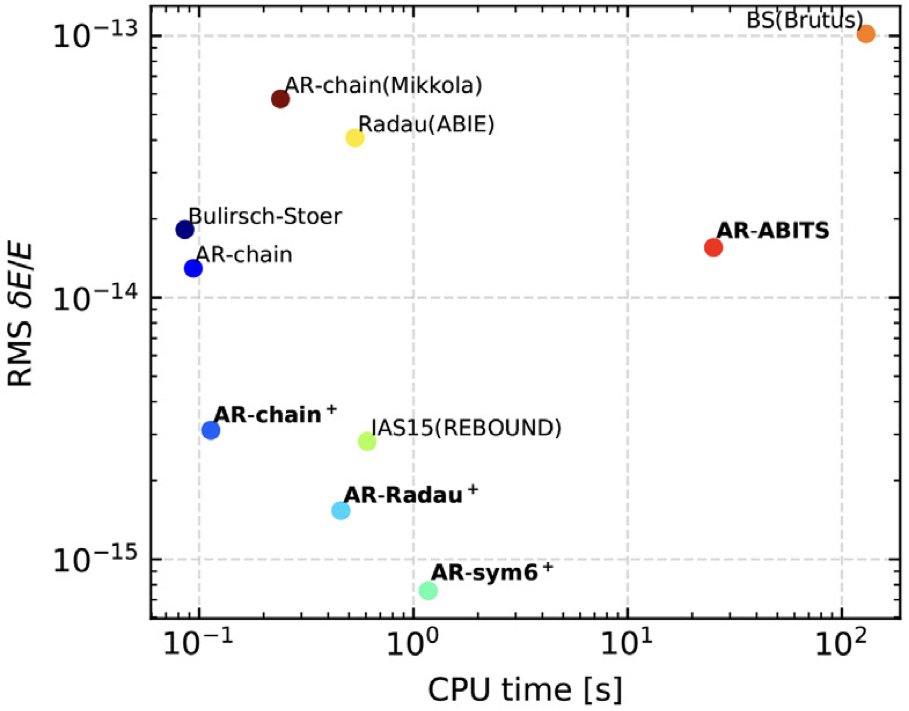
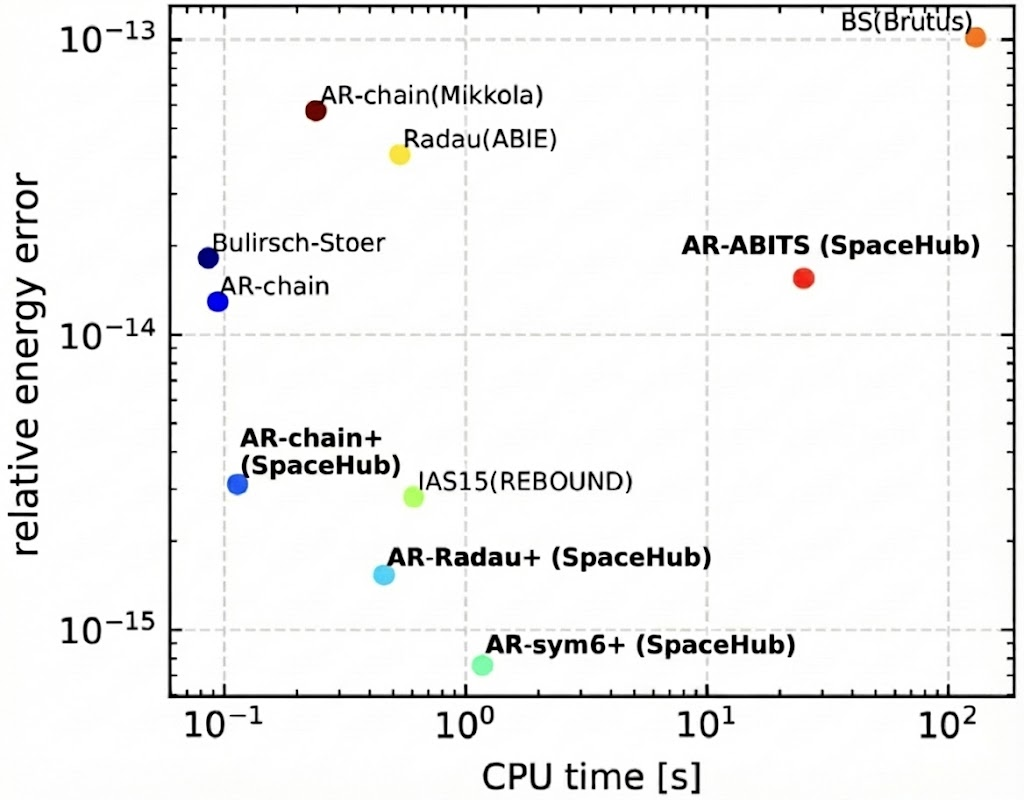
backup

diff --git a/content/authors/admin/_index.md b/content/authors/admin/_index.md
@@ -14,15 +14,17 @@ organizations:
     url: https://www.astro.wisc.edu/
 
 # Short bio (displayed in user profile at end of posts)
-bio: Studying stellar dynamics and transients in Active Galactic Nuclei through theory and high-performance simulations.
+bio: Establishing a unified framework of disk-regulated cluster dynamics to understand AGN transients and gravitational wave sources.
 
 # Interests to show in About widget
 interests:
-  - Stellar dynamics in AGN disks
-  - Tidal disruption events and changing-look AGN
-  - Gravitational wave sources (EMRIs, binary BH mergers)
-  - Quasi-periodic eruptions
-  - Free-floating planets and binary planets
+  - "Nuclei cluster dynamics: <br>
+    &nbsp;&nbsp;&nbsp;&nbsp;◦ Tidal disruption events <br>
+    &nbsp;&nbsp;&nbsp;&nbsp;◦ Changing-look AGN <br>
+    &nbsp;&nbsp;&nbsp;&nbsp;◦ Quasi-periodic eruptions <br>
+    &nbsp;&nbsp;&nbsp;&nbsp;◦ Extreme mass ratio inspirals <br>"
+  - Multi-messenger astrophysics
+  - Free floating planets
 
 # Education to show in About widget
 education:
@@ -67,6 +69,8 @@ highlight_name: true
 
 I am a Postdoctoral Research Associate in the Department of Astronomy at the University of Wisconsin-Madison, working with [Nick Stone](https://www.ncstone.space). Previously, I was a Fellow at the Nevada Center for Astrophysics at UNLV, collaborating with [Bing Zhang](https://www.physics.unlv.edu/~bzhang/) and [Zhaohuan Zhu](https://www.physics.unlv.edu/~zhzhu/Home.html). I completed my PhD at Stony Brook University under [Rosalba Perna](https://www.astro.sunysb.edu/rosalba/).
 
-My research establishes a unified framework for understanding the coupled evolution of AGN disks and their embedded stellar populations. This paradigm connects a broad class of phenomena: rapid AGN state transitions, the puzzling demographics of tidal disruption events, quasi-periodic eruptions, and the formation of gravitational wave sources detectable by LIGO and LISA. I develop open-source simulation tools including [SpaceHub](https://yihanwangastro.github.io/SpaceHubWeb/) for few-body dynamics and [VegasAfterglow](https://github.com/YihanWangAstro/VegasAfterglow) for gamma-ray burst afterglow modeling.
+My research establishes a unified framework of disk-regulated cluster dynamics to understand the coupled evolution of AGN disks and stellar populations in galactic nuclei. This paradigm connects a diverse class of AGN transients and gravitational wave sources: tidal disruption events, changing-look AGN, quasi-periodic eruptions, extreme mass-ratio inspirals, and binary black hole mergers detectable by LIGO and LISA. I develop hard-core open-source simulation tools including [SpaceHub](https://github.com/YihanWangAstro/SpaceHub/) for few-body dynamics and [VegasAfterglow](https://github.com/YihanWangAstro/VegasAfterglow) for gamma-ray burst afterglow modeling.
+
+I hate spaghetti code and am a bit stubborn about elegant problem solutions, which wastes a lot of my time.
 
 {{< icon name="download" pack="fas" >}} Download my {{< staticref "uploads/Yihan's CV.pdf" "newtab" >}}CV{{< /staticref >}}.

diff --git a/content/home/hero.md b/content/home/hero.md
@@ -38,9 +38,20 @@ cta_note:
   label: 
 ---
 
-#### SpaceHub is a state-of-the-art gravitational dynamics framework designed to solve challenging few-body problems with exceptional precision and efficiency. From supermassive black hole binaries to planetary system evolution, SpaceHub handles extreme scenarios — including large mass ratios, highly eccentric orbits, and close gravitational encounters — that often challenge conventional numerical integrators. Built with advanced algorithmic regularization and rigorous round-off error control, it enables reliable long-term integrations where standard codes like REBOUND may struggle with numerical accuracy.
+#### SpaceHub is a state-of-the-art gravitational dynamics framework designed to solve challenging few-body problems with exceptional precision and efficiency. From supermassive black hole binaries to planetary system evolution, SpaceHub handles extreme scenarios, including large mass ratios, highly eccentric orbits, and close gravitational encounters that often challenge conventional numerical integrators. Built with advanced algorithmic regularization and rigorous round-off error control, it enables reliable long-term integrations where standard codes like REBOUND may struggle with numerical accuracy.
 
-[![DOI:10.1093/mnras/stab1189](https://zenodo.org/badge/DOI/10.1093/mnras/stab1189.svg)](https://doi.org/10.1093/mnras/stab1189)
+<div style="display: flex; justify-content: space-around; flex-wrap: wrap; gap: 20px; margin: 30px 0;">
+  <div style="text-align: center; max-width: 45%;">
+    <h4>Runge-Kutta (irreversible)</h4>
+    <img src="/uploads/Picture1.gif" alt="Runge-Kutta (irreversible)" style="width: 100%; height: auto;" />
+  </div>
+  <div style="text-align: center; max-width: 45%;">
+    <h4>Symplectic (reversible)</h4>
+    <img src="/uploads/Picture2.gif" alt="Symplectic (reversible)" style="width: 100%; height: auto;" />
+  </div>
+</div>
+
+[**Read the paper: MNRAS, 503, 6005-6017 (2021)**](https://ui.adsabs.harvard.edu/abs/2021MNRAS.505.1053W/abstract)
 
 <!---[![GitHub stars](https://img.shields.io/github/stars/YihanWangAstro/SpaceHub.svg?style=social&label=Star&maxAge=2592000)](https://github.com/YihanWangAstro/SpaceHub/stargazers/)--->
 

diff --git a/content/home/hero-vegasafterglow.md b/content/home/hero-vegasafterglow.md
@@ -47,7 +47,7 @@ cta_note:
   label: 
 ---
 
-#### VegasAfterglow is a high-performance computational framework for gamma-ray burst afterglow modeling, combining C++ efficiency with Python accessibility. Unlike existing tools such as afterglowpy, VegasAfterglow generates light curves in milliseconds — enabling rapid MCMC parameter inference that would otherwise be computationally prohibitive. The framework also offers more comprehensive physics, including reverse shock emission, synchrotron self-Compton, and flexible jet structures for multi-wavelength afterglow analysis:
+#### VegasAfterglow is a high-performance computational framework for gamma-ray burst afterglow modeling, combining C++ efficiency with Python accessibility. Unlike existing tools such as afterglowpy, VegasAfterglow generates light curves in milliseconds, enabling rapid MCMC parameter inference that would otherwise be computationally prohibitive. The framework also offers more comprehensive physics, including reverse shock emission, synchrotron self-Compton, and flexible jet structures for multi-wavelength afterglow analysis:
 
 <div style="font-size: 0.75em;">
 
@@ -67,5 +67,7 @@ cta_note:
 - Pairwise IC between shock populations with Klein-Nishina corrections
 
 </div>
+
+[**Read the paper: JHEAp, 5, 100490 (2026)**](https://ui.adsabs.harvard.edu/abs/2026JHEAp..5000490W/abstract)
 
 [![PyPI](https://img.shields.io/pypi/v/VegasAfterglow.svg)](https://pypi.org/project/VegasAfterglow/)

diff --git a/content/home/posts.md b/content/home/posts.md
@@ -25,6 +25,10 @@ I grew up in Chongqing, a city known for its dramatic mountainous terrain and tr
 
 ![image](uploads/drawing.png)
 
+I recently revisited this sketch and used Google Gemini to add color and detail:
+
+![image](uploads/drawing-color.png)
+
 ## Skiing
 
 I picked up skiing during my PhD and quickly got hooked despite an early encounter with ski patrol. What started as a new challenge became a regular pursuit where steady improvement kept me coming back.